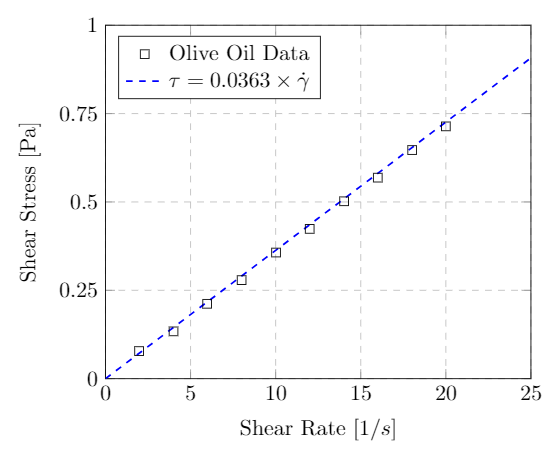
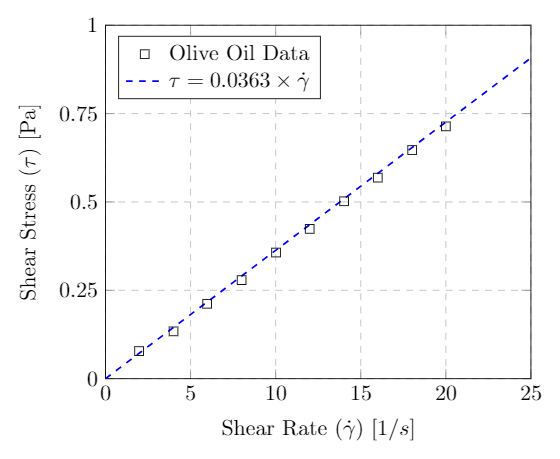
viscosity

Changed region(s): [[0.0304, 0.2135, 0.0911, 0.671], [0.3946, 0.915, 0.7589, 0.976]]

diff --git a/teaching/Applied-Fluids/Notes/FluidProperties.md b/teaching/Applied-Fluids/Notes/FluidProperties.md
@@ -172,6 +172,8 @@ $$
 
 ## Viscosity
 
+### Dynamic Viscosity
+
 A fluid's *viscosity* is a measure of the fluid's resistance to motion under an applied shear force.  When you stir a pot of honey the spoon generates the "applied shear force".  The difficulty in moving the spoon due to the fluid's resistance is a specific property of the honey, *i.e.* the honey's viscosity.  How is this fluid property *quantified*.
 
 We start off in the same way as every other fluids textbook.  Imagine two flat surfaces separated by the fluid of interest.  The plates are large so that we can ignore what is going on at the edges.  A force $F$ is applied to the upper surface in order for it to maintain a constant velocity $v$.  The lower surface remains stationary.  The distance between the surfaces (the thickness of the layer of fluid) is $y$.  Here is a picture of the setup I have in mind.
@@ -187,26 +189,51 @@ The upper plate creates an applied shear stress of magnitude $\tau=F/A$, where $
 
 So what is the fluid doing between these two plates; one stationary, one moving. Well, a basic condition, which we state without justification, is that a fluid in contact with a surface has the same velocity as that surface.  This is known as the *no-slip condition*.  Therefore, the velocity of the fluid in contact with the bottom plate is zero and the velocity of the fluid in contact with the top plate is $v$.
 
-If the thickness of the fluid is small we can assume that the velocity increases from the lower stationary plate to the upper moving plate in a straight-line (linear) fashion.  This rate-of-change in velocity from the bottom plate to the top is known as the *shear rate* or *velocity gradient* or *strain* and expressed as $\Delta v/\Delta y$ (*i.e.* it's the slope of the velocity profile).  The shear rate is often written as $\dot{\gamma}$ (the Greek letter gamma with a dot--the dot represents a derivative) and has units $1/s$ (*i.e.* reciprocal seconds or inverse seconds).
+If the thickness of the fluid is small we assume that the velocity increases from the lower stationary plate to the upper moving plate in a straight-line (linear) fashion.  This rate-of-change in velocity from the bottom plate to the top is known as the *shear rate* or *velocity gradient* or *strain* and expressed as $\Delta v/\Delta y$ (*i.e.* it's the slope of the velocity profile).  The shear rate is often written as $\dot{\gamma}$ (the Greek letter gamma with a dot--the dot represents a derivative) and has units $1/s$ (*i.e.* reciprocal seconds or inverse seconds).
 
-The relation between the applied shear stress and the strain that develops in the fluid is a measure of the fluids viscosity.  For example, the external force required to generate the same upper-plate velocity in honey and water would be much larger for the honey (the honey is more viscous).
 
-In practice a series of measurements would be performed where the external force (applied shear stress) is varied and the resultant strain rates recorded.  Below is an example of such an experiment on Olive Oil.  Each data point (square) represents one such measurement.  For each applied shear stress (y-axis) there is one corresponding shear rate (x-axis).  
+The amount of applied shear stress that is necessary to generate a certain strain is a measure of the fluids viscosity.  For example, the external force required to generate the same upper-plate velocity in honey and water would be much larger for the honey (the honey is more viscous).
+
+In practice a series of measurements would be performed where the external force (applied shear stress) is varied and the resultant strain rates recorded.  The graph below shows the results of such an experiment using Olive Oil.  Each data point (square) represents one such measurement.  For each applied shear stress (y-axis) there is one corresponding shear rate (x-axis).  
 
 <div class="photo" style="width: 500px;">
   <img src="img\OliveOil.png" alt="Rheogram for Olive Oil">
   <p>
-  Rheogram for Olive Oil -- a Newtonian fluid. Data from <a href="https://sites.google.com/site/jfsteffe/">Steffe</a>.
+  Rheogram for Olive Oil -- a Newtonian fluid -- at $40\C$. Data from <a href="https://sites.google.com/site/jfsteffe/">Steffe</a>.
   </p>
 </div>
 
-One readily observes a linear (straight-line) relationship between the stress and strain for this particular fluid.   A fluid that exhibits this type of behavior is known as *Newtonian* and the slope of the line corresponding to the data is known as the *dynamic* or *absolute viscosity*.  For a Newtonian fluid we therefore have
+One readily observes a linear relationship between the stress and strain for this particular fluid.   A fluid that exhibits this type of behavior is known as *Newtonian*.  The slope of the line in the stress-strain curve is known as the *dynamic* or *absolute viscosity*.  For a Newtonian fluid we therefore have
 
 $$
-\tau=\eta \left(\frac{\Delta v}{\Delta y}\right)=\eta \, \dot{\gamma}
+\tau=\eta \left(\frac{\Delta v}{\Delta y}\right)
 $$
 
-The Greek-letter $eta$ represents the dynamic viscosity and it has units of $\lb \cdot s/\ft^2$ in the US system or $\Pa\cdot s$ in the SI system.  Coming back to our example of Olive Oil we see from the fit on the above graph that it has a dynamic viscosity of $\eta=0.0363\,$\Pa \cdot s$.
+where $\eta$ (Greek letter eta) is the dynamic viscosity, $\tau$ is the applied shear stress and $\Delta v/\Delta y$ is the shear rate.  
+
+The dynamic viscosity has units of $\Pa\cdot s$ in the SI system and $\lb \cdot s/\ft^2$ in the US system.  Coming back to our example of Olive Oil we see that it has a dynamic viscosity of $\eta=0.0363\,\Pa \cdot s$.  
+
+In many fluid property resources the dynamic viscosity will be given in an older unit call the centipoise (cP).  A centipoise is equivalent to a milli-Pa$\cdot s$ which is $1.0\times 10^{-3}\,\Pa\cdot s$.  So the viscosity of the Olive Oil considered above has a dynamic viscosity of $\eta=36.3 {\rm cP}$.
+
+### Kinematic Viscosity
+
+### Non-Newtonian fluids
+
+<div class="photo" style="width: 500px;">
+  <img src="img\ShearStrainNonNewtonian.png" alt="Rheogram for Olive Oil">
+  <p>
+
+  </p>
+</div>
+
+
+<div class="photo" style="width: 500px;">
+  <img src="img\ApparentViscosity.png" alt="Rheogram for Olive Oil">
+  <p>
+
+  </p>
+</div>
+
 
 ### Temperature Dependence of Viscosity
 
